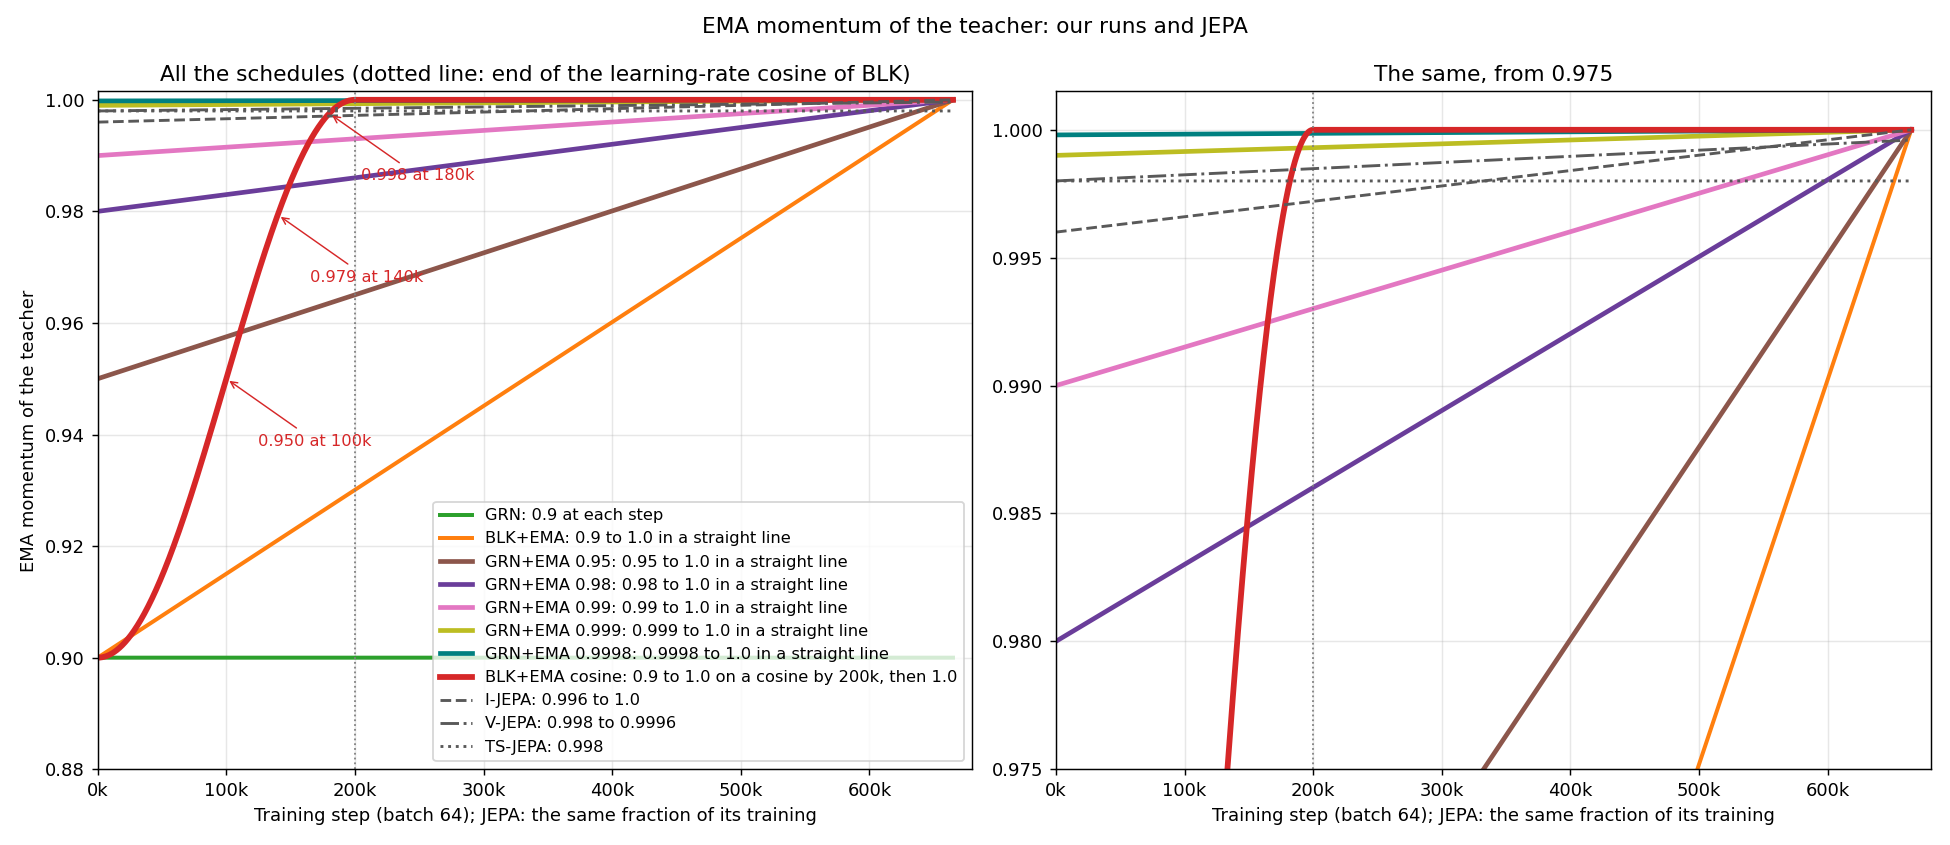
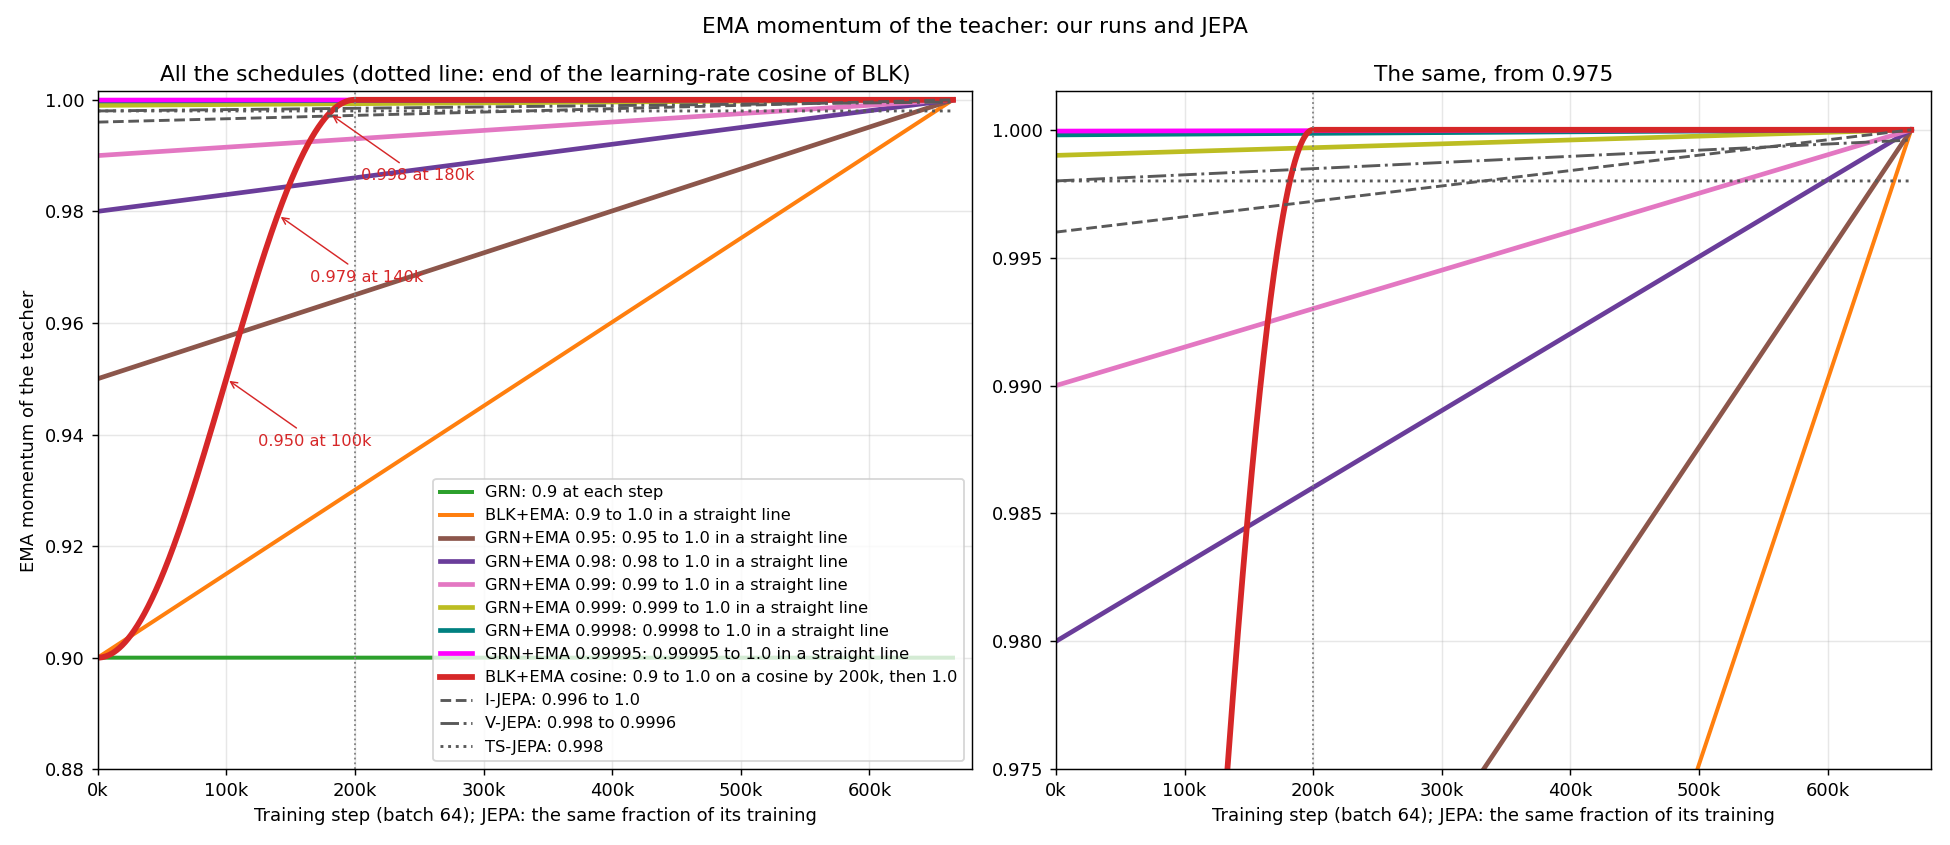
Frequency-family report: grn_ema099995 (GRN, teacher EMA 0.99995 to 1.0 over 665k) in the figures
The owner, 10-17: "Let's try 0.99995 then". Magenta, marker 8; drawn on
top with grn_ema09998. The forecast figure is the same until its first
score.

Changed region(s): [[0.2154, 0.5538, 0.4615, 0.8], [0.5538, 0.1538, 0.6769, 0.1846], [0.0615, 0.0923, 0.1846, 0.1231]]

diff --git a/reports/2026-10-10_frequency_family_head/scripts/plot_green_scores.py b/reports/2026-10-10_frequency_family_head/scripts/plot_green_scores.py
@@ -1,6 +1,7 @@
 """The forecast and the reconstruction of the encoder latent through training,
 for the runs of this report (GRN, BLK+EMA, GRN+EMA 0.95, GRN+EMA 0.98, GRN+EMA
-0.99, GRN+EMA 0.999, GRN+EMA 0.9998, BLK+EMA cosine) next to ABC, CYN and BLK,
+0.99, GRN+EMA 0.999, GRN+EMA 0.9998, GRN+EMA 0.99995, BLK+EMA cosine) next to
+ABC, CYN and BLK,
 and the forecast of MPE (Moirai, patch heads, EWMA, new data, batch 256: x 4
 for the data seen). Writes plots/forecast_and_reconstruction.png: three panels
 on one x axis.
@@ -17,9 +18,9 @@ Reads the scores of ABC, CYN and BLK of #412 and #425
 reports/2026-10-06_encoder_reconstruction/results/*.tsv), and the scores of
 the runs of this report (GRN: arm abc_gift, BLK+EMA: arm blk_ema, GRN+EMA 0.95:
 arm grn_ema095, GRN+EMA 0.98: arm grn_ema098, GRN+EMA 0.99: arm grn_ema099,
-GRN+EMA 0.999: arm grn_ema0999, GRN+EMA 0.9998: arm grn_ema09998, BLK+EMA cosine:
-arm blk_emacos): results/scores.tsv (B4, arm
-`control`), and results/recon_*.tsv (R, with the columns arm, stop in
+GRN+EMA 0.999: arm grn_ema0999, GRN+EMA 0.9998: arm grn_ema09998, GRN+EMA
+0.99995: arm grn_ema099995, BLK+EMA cosine: arm blk_emacos): results/scores.tsv
+(B4, arm `control`), and results/recon_*.tsv (R, with the columns arm, stop in
 thousands of steps, GM-Relative MASE; collect_recon.py writes them).
 The point at 1k steps of GRN, BLK and ABC is a run of the first 1,000 steps
 again, with the flags and the seed of the run: B4 in results/scores.tsv (runs
@@ -58,17 +59,19 @@ GRN_EMA0999 = "grn_ema0999"
 GRN_EMA0999_COLOUR = "#bcbd22"  # its colour in plot_ema_plan.py
 GRN_EMA09998 = "grn_ema09998"
 GRN_EMA09998_COLOUR = "#008080"  # its colour in plot_ema_plan.py
+GRN_EMA099995 = "grn_ema099995"
+GRN_EMA099995_COLOUR = "#ff00ff"  # its colour in plot_ema_plan.py
 GRN_EMA095 = "grn_ema095"
 GRN_EMA095_COLOUR = "#8c564b"  # its colour in plot_ema_plan.py
 BLK_EMACOS = "blk_emacos"
 BLK_EMACOS_COLOUR = "#d62728"  # its colour in plot_ema_plan.py
 # The runs of this report: their forecast comes from results/scores.tsv.
 NEW_RUNS = [GREEN, BLK_EMA, GRN_EMA095, GRN_EMA, GRN_EMA099, GRN_EMA0999, GRN_EMA09998,
-            BLK_EMACOS]
+            GRN_EMA099995, BLK_EMACOS]
 # Older runs with a forecast at 1k steps in results/scores.tsv: arm -> run.
 FIRST_STEPS = {"cf419_cos200k": "blk", P + "_lr10x": "abc"}
-# The run in progress: drawn above the others, so that its first points show.
-ON_TOP = {GRN_EMA09998}
+# The newest runs: drawn above the others, so that their first points show.
+ON_TOP = {GRN_EMA09998, GRN_EMA099995}
 MPE = "cf421ew_moirai_native"
 # Its R (transformer head 0.12 to 0.21) lies far above the R panels.
 FORECAST_ONLY = {MPE}
@@ -86,6 +89,8 @@ RUNS = [
      GRN_EMA0999_COLOUR, ">"),
     (GRN_EMA09998, r"$\mathbf{GRN+EMA\ 0.9998}$  as GRN, EMA of the teacher 0.9998 to 1.0 over 665k",
      GRN_EMA09998_COLOUR, "<"),
+    (GRN_EMA099995, r"$\mathbf{GRN+EMA\ 0.99995}$  as GRN, EMA of the teacher 0.99995 to 1.0 "
+     "over 665k", GRN_EMA099995_COLOUR, "8"),
     (BLK_EMA, r"$\mathbf{BLK+EMA}$  as BLK, EMA of the teacher 0.9 to 1.0 over 665k",
      BLK_EMA_COLOUR, "P"),
     (BLK_EMACOS, r"$\mathbf{BLK+EMA\ cosine}$  as BLK, EMA of the teacher 0.9 to 1.0 on a cosine "

diff --git a/reports/2026-10-10_frequency_family_head/scripts/plot_ema_plan.py b/reports/2026-10-10_frequency_family_head/scripts/plot_ema_plan.py
@@ -6,8 +6,9 @@ schedules of I-JEPA, V-JEPA and TS-JEPA. Writes plots/ema_schedule_plan.png.
   GRN+EMA   0.98 to 1.0 in a straight line over the whole run: 1.0 only at
             step 665,000 (the owner, 10-12; run grn_ema098); the same from
             0.99 (grn_ema099), from 0.95 (grn_ema095), from 0.999
-            (grn_ema0999, the owner, 10-15) and from 0.9998 (grn_ema09998,
-            the owner's grant, 10-16)
+            (grn_ema0999, the owner, 10-15), from 0.9998 (grn_ema09998,
+            the owner's grant, 10-16) and from 0.99995 (grn_ema099995, the
+            owner, 10-17)
   BLK+EMA cosine  0.9 to 1.0 on a cosine over the first 200,000 steps, the
             span of the learning-rate cosine of BLK, then 1.0: a frozen
             teacher (the owner, 10-13; run blk_emacos)
@@ -46,7 +47,7 @@ def draw_ours(ax, steps):
     ax.plot(steps, 0.9 + 0.1 * steps / TOTAL, color="#ff7f0e", lw=2.2,
             label="BLK+EMA: 0.9 to 1.0 in a straight line")
     for start, colour in ((0.95, "#8c564b"), (0.98, "#6a3d9a"), (0.99, "#e377c2"),
-                          (0.999, "#bcbd22"), (0.9998, "#008080")):
+                          (0.999, "#bcbd22"), (0.9998, "#008080"), (0.99995, "#ff00ff")):
         ax.plot(steps, start + (1.0 - start) * steps / TOTAL, color=colour, lw=2.6,
                 label=f"GRN+EMA {start}: {start} to 1.0 in a straight line")
     ax.plot(steps, cosine_ramp(steps, 0.9, 1.0, COSINE_SPAN), color="#d62728", lw=3.2,
